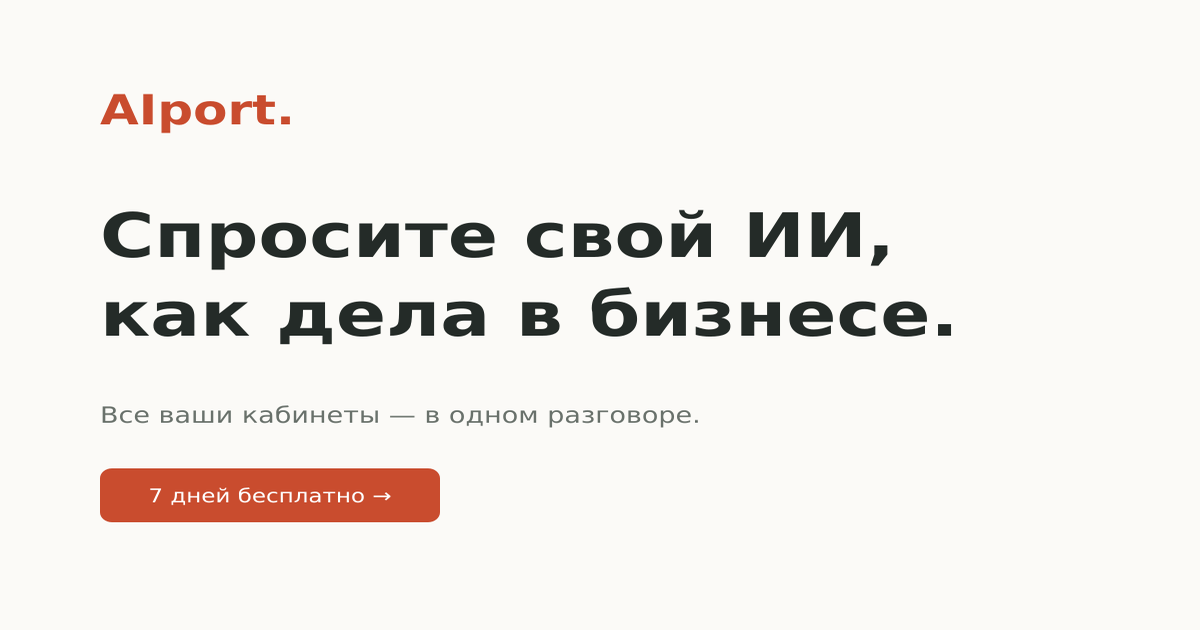
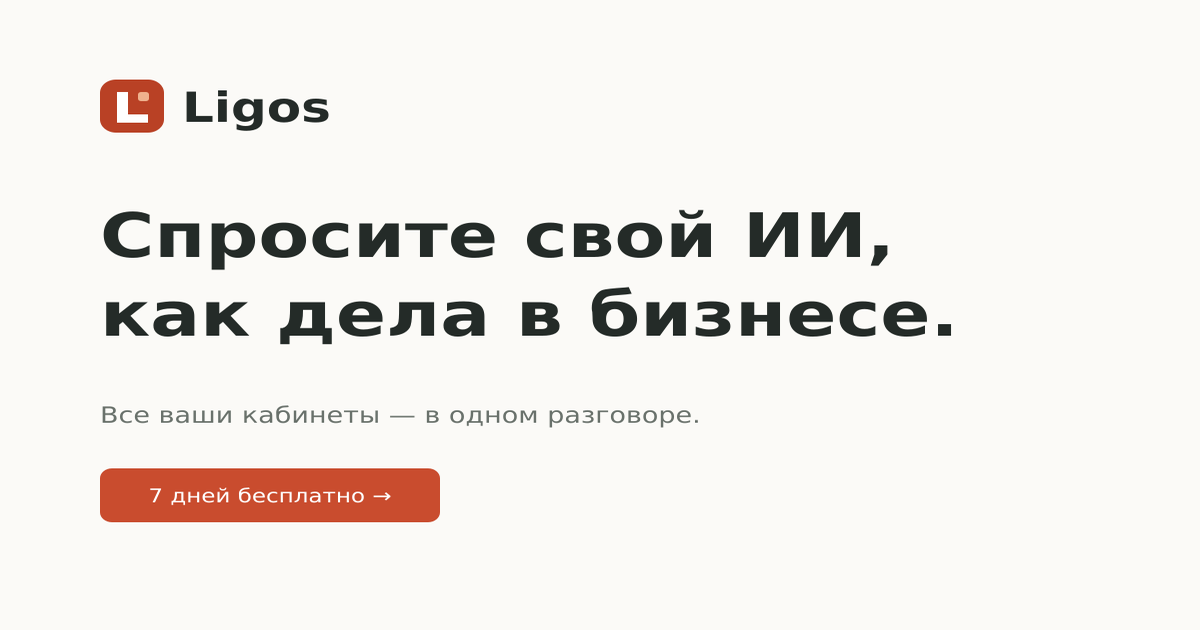
Rebrand site as Ligos and configure ligos.ru

Changed region(s): [[0.0617, 0.1206, 0.2775, 0.2111]]

diff --git a/src/scripts/site.ts b/src/scripts/site.ts
@@ -21,7 +21,7 @@ const safeStorage = {
     } catch {}
   },
 };
-let consent = safeStorage.get('aiport-consent');
+let consent = safeStorage.get('ligos-consent');
 function track(goal: string, params: Record<string, unknown> = {}) {
   if (consent === 'all' && window.ym && body.dataset.ymId)
     window.ym(Number(body.dataset.ymId), 'reachGoal', goal, params);
@@ -52,7 +52,7 @@ if (!consent && banner) banner.hidden = false;
 document.querySelectorAll<HTMLButtonElement>('[data-consent]').forEach((button) =>
   button.addEventListener('click', () => {
     consent = button.dataset.consent || 'necessary';
-    safeStorage.set('aiport-consent', consent);
+    safeStorage.set('ligos-consent', consent);
     if (banner) banner.hidden = true;
     loadAnalytics();
   }),

diff --git a/src/styles/global.css b/src/styles/global.css
@@ -218,24 +218,6 @@ p {
   line-height: 1;
   flex-shrink: 0;
 }
-.logo-dot {
-  color: var(--accent);
-}
-.logo-symbol {
-  display: grid;
-  grid-template-columns: repeat(2, 8px);
-  grid-template-rows: repeat(2, 8px);
-  gap: 3px;
-  transform: rotate(-9deg);
-  margin-right: 10px;
-}
-.logo-symbol i {
-  border-radius: 2px;
-  background: var(--accent);
-}
-.logo-symbol i:last-child {
-  background: #edaa87;
-}
 .desktop-nav {
   display: flex;
   align-items: center;
@@ -2735,4 +2717,10 @@ p {
   .button > svg {
     flex-shrink: 0;
   }
+}
+
+.logo-mark {
+  margin-right: 10px;
+  border-radius: 8px;
+  flex-shrink: 0;
 }

diff --git a/src/lib/config.ts b/src/lib/config.ts
@@ -1,6 +1,6 @@
 export const config = {
-  brand: import.meta.env.PUBLIC_BRAND || 'AIport',
-  site: (import.meta.env.PUBLIC_SITE_URL || 'https://aiport.example').replace(/\/$/, ''),
+  brand: import.meta.env.PUBLIC_BRAND || 'Ligos',
+  site: (import.meta.env.PUBLIC_SITE_URL || 'https://ligos.ru').replace(/\/$/, ''),
   app: (import.meta.env.PUBLIC_APP_URL || '').replace(/\/$/, ''),
   email: import.meta.env.PUBLIC_SUPPORT_EMAIL || '',
   ymId: import.meta.env.PUBLIC_YM_ID || '',

diff --git a/README.md b/README.md
@@ -1,4 +1,4 @@
-# AIport — продающий сайт
+# Ligos — продающий сайт
 
 Статический сайт на Astro 5 и TypeScript по ТЗ «продающий сайт». Основная аудитория — собственники магазинов на маркетплейсах. Дополнительные лендинги — для малого бизнеса и частных лиц.
 
@@ -25,7 +25,7 @@ npm run preview
 
 `npm run test:e2e` запускает Playwright и временный сервер собранного сайта. В этой облачной среде используется `/usr/bin/chromium`. На другой машине укажите `CHROMIUM_PATH` или установите Chromium. В тестах проверяются фильтры, цены, меню, формы, API-ответы, согласие на аналитику, ref/UTM и доступность основных типов страниц через axe. Настоящие платформенные запросы в интеграционных тестах заменены тестовыми ответами.
 
-`npm run assets` пересоздаёт WebP-иллюстрации и общую PNG-картинку Open Graph. `npm run format` форматирует исходники.
+`npm run assets` пересоздаёт WebP-иллюстрации, PNG-картинку Open Graph и PNG/ICO-версии favicon. Единый знак L лежит в `public/logo-mark.svg`; тот же знак используется в SVG favicon. `npm run format` форматирует исходники.
 
 ## Что реализовано
 
@@ -49,18 +49,18 @@ npm run preview
 
 Для локальной конфигурации скопируйте `.env.example` в `.env`. В GitHub Actions добавьте соответствующие **Repository variables**. Это публичные параметры, не секреты: не записывайте сюда токены, пароли и API-ключи пользователей.
 
-| Переменная                   | Назначение                                                   |
-| ---------------------------- | ------------------------------------------------------------ |
-| `PUBLIC_BRAND`               | Текстовый бренд, по умолчанию AIport                         |
-| `PUBLIC_SITE_URL`            | Полный адрес сайта, например `https://ваш-домен.ru`          |
-| `PUBLIC_APP_URL`             | Полный адрес платформы, например `https://app.ваш-домен.ru`  |
-| `PUBLIC_SUPPORT_EMAIL`       | Email поддержки                                              |
-| `PUBLIC_YM_ID`               | Числовой ID Яндекс Метрики                                   |
-| `PUBLIC_LEGAL_NAME`          | ФИО ИП / оператор                                            |
-| `PUBLIC_LEGAL_INN`           | ИНН                                                          |
-| `PUBLIC_LEGAL_OGRNIP`        | ОГРНИП                                                       |
-| `PUBLIC_YANDEX_VERIFICATION` | Код подтверждения Яндекс Вебмастера                          |
-| `PUBLIC_SECURITY_VERIFIED`   | `true` только после проверки заявленных мер защиты платформы |
+| Переменная                   | Назначение                                                    |
+| ---------------------------- | ------------------------------------------------------------- |
+| `PUBLIC_BRAND`               | Текстовый бренд, по умолчанию Ligos                           |
+| `PUBLIC_SITE_URL`            | Основной адрес сайта: `https://ligos.ru`                      |
+| `PUBLIC_APP_URL`             | Полный адрес платформы, после запуска: `https://app.ligos.ru` |
+| `PUBLIC_SUPPORT_EMAIL`       | Email поддержки                                               |
+| `PUBLIC_YM_ID`               | Числовой ID Яндекс Метрики                                    |
+| `PUBLIC_LEGAL_NAME`          | ФИО ИП / оператор                                             |
+| `PUBLIC_LEGAL_INN`           | ИНН                                                           |
+| `PUBLIC_LEGAL_OGRNIP`        | ОГРНИП                                                        |
+| `PUBLIC_YANDEX_VERIFICATION` | Код подтверждения Яндекс Вебмастера                           |
+| `PUBLIC_SECURITY_VERIFIED`   | `true` только после проверки заявленных мер защиты платформы  |
 
 Настройки считываются при сборке. После изменения нужен новый `npm run build` или перезапуск dev-сервера.
 
@@ -92,20 +92,21 @@ npm run preview
 
 ## Публикация на GitHub Pages
 
-Домен владелец добавит позже. Для первого деплоя используется GitHub Pages по адресу `https://100pasha.github.io/aiport_site/`. По умолчанию сайт использует технический адрес `https://aiport.example` только для локальной подготовки; он не предназначен для публикации.
+Основной адрес сайта — **https://ligos.ru**. Название — **Ligos**. Workflow собирает сайт для корня этого домена, а `public/CNAME` и итоговый `dist/CNAME` содержат `ligos.ru`. Canonical, Open Graph, sitemap, RSS и база знаний используют тот же домен.
 
-1. После появления коммита в `main` включите GitHub Pages → Source: **GitHub Actions**.
-2. Если домен ещё не выбран, оставьте `PUBLIC_SITE_URL` пустым в Repository variables. Для собственного домена укажите его полный HTTPS-адрес. Без собственного домена workflow использует `https://100pasha.github.io/aiport_site/`. Все ссылки, изображения, шрифты, RSS и база знаний учитывают этот путь; при указании собственного домена сборка автоматически переходит в его корень.
-3. Настройте DNS и Custom domain в GitHub Pages. Сборка сама создаёт `dist/CNAME` и `.nojekyll`.
-4. Включите **Enforce HTTPS** после выпуска сертификата GitHub.
-5. Укажите адрес платформы, поддержку, реквизиты и счётчик; проверьте окончательные документы.
-6. Запустите workflow и подтвердите сайт в Яндекс Вебмастере. Sitemap: `/sitemap.xml` (также доступен Astro `/sitemap-index.xml`).
+1. В GitHub Pages выберите Source: **GitHub Actions**, а Custom domain — `ligos.ru`.
+2. У регистратора домена настройте A-записи для `@`: `185.199.108.153`, `185.199.109.153`, `185.199.110.153`, `185.199.111.153`. Уберите конфликтующие записи прежнего хостинга. Для `www` при необходимости создайте CNAME на `100pasha.github.io`.
+3. После проверки DNS и выпуска сертификата включите **Enforce HTTPS** в GitHub Pages.
+4. Укажите рабочий адрес платформы, поддержку, реквизиты и счётчик. Контракт предусматривает `app.ligos.ru` и `mcp.ligos.ru`; пока платформа не запущена, её URL остаётся пустым и используются честные локальные заглушки.
+5. Подтвердите `ligos.ru` в Яндекс Вебмастере и отправьте `https://ligos.ru/sitemap.xml`.
 
-Настройка DNS, включение HTTPS, отправка sitemap в Вебмастер и публикация требуют действий в аккаунтах владельца. В рамках этой работы внешняя публикация не выполнялась.
+DNS управляется в аккаунте владельца домена. Изменение кода и CNAME не подтверждает настройку DNS, сертификата или завершение публикации GitHub Pages. Имя репозитория `100pasha/aiport_site` и путь checkout сохранены: они не являются названием продукта.
+
+Локальный запуск по-прежнему работает без `.env`. Для отдельной проверки размещения в подпапке можно переопределить `PUBLIC_SITE_URL`: ссылки и ресурсы учитывают путь автоматически.
 
 ## Что требуется перед публичным запуском
 
-- Домен, адрес работающей платформы, контакт поддержки и реквизиты ИП.
+- DNS домена ligos.ru, адрес работающей платформы, контакт поддержки и реквизиты ИП.
 - Проверка и утверждение юридических шаблонов; в них намеренно видна отметка предварительной редакции.
 - Проверка реальных разрешений всех API: OAuth и токен сами по себе не гарантируют права только на чтение.
 - Реальные скриншоты из тестовых кабинетов со скрытыми секретами и проверка инструкций, особенно текущих тарифов и интерфейса ChatGPT.

diff --git a/content/help/services/ozon.md b/content/help/services/ozon.md
@@ -10,10 +10,10 @@ updated: 2026-10-19
 > Предварительная инструкция. Интерфейс и разрешения нужно проверить в тестовом кабинете перед публикацией. Иллюстрация ниже — схема, а не скриншот реального сервиса.
 
 1. В кабинете продавца откройте **Настройки → API-ключи**. Нужен аккаунт с правами управления доступом.
-2. Выберите «Сгенерировать ключ», задайте понятное имя, например «AIport — чтение», и роль **Admin read only**. Не выбирайте роль с правами изменения.
+2. Выберите «Сгенерировать ключ», задайте понятное имя, например «Ligos — чтение», и роль **Admin read only**. Не выбирайте роль с правами изменения.
 3. Скопируйте **Client-Id** и **Api-Key** в форму подключения Ozon в кабинете платформы. Сохраните ключ в защищённом месте: он может показываться только один раз.
 
-![Схема подключения: кабинет сервиса, ограниченный ключ и кабинет AIport](/img/help/service-access.svg)
+![Схема подключения: кабинет сервиса, ограниченный ключ и кабинет Ligos](/img/help/service-access.svg)
 
 ## Храните ключ отдельно
 

diff --git a/content/help/services/bitrix24.md b/content/help/services/bitrix24.md
@@ -13,7 +13,7 @@ updated: 2026-10-19
 2. Выберите только нужные разделы. Вебхуки могут наследовать широкие права пользователя: убедитесь, что используется отдельный пользователь с правами чтения. Если это невозможно, не подключайте вебхук до согласования.
 3. Вставьте URL вебхука в кабинет платформы. URL содержит секрет: не публикуйте его и не отправляйте в обычный чат.
 
-![Схема подключения: кабинет сервиса, ограниченный ключ и кабинет AIport](/img/help/service-access.svg)
+![Схема подключения: кабинет сервиса, ограниченный ключ и кабинет Ligos](/img/help/service-access.svg)
 
 ## Храните ключ отдельно
 

diff --git a/content/help/services/wildberries.md b/content/help/services/wildberries.md
@@ -13,7 +13,7 @@ updated: 2026-10-19
 2. Отметьте необходимые категории: статистика, аналитика, финансы, контент, цены, продвижение и отзывы. Обязательно выберите **«Только на чтение»**.
 3. Скопируйте токен в подключение Wildberries в кабинете платформы. Если не выбрана нужная категория, её данные будут недоступны. При истечении срока действия обновите токен.
 
-![Схема подключения: кабинет сервиса, ограниченный ключ и кабинет AIport](/img/help/service-access.svg)
+![Схема подключения: кабинет сервиса, ограниченный ключ и кабинет Ligos](/img/help/service-access.svg)
 
 ## Храните ключ отдельно
 

diff --git a/content/help/services/yandex-direct.md b/content/help/services/yandex-direct.md
@@ -13,7 +13,7 @@ updated: 2026-10-19
 2. Выберите пользователя с минимальными правами. API-токен может допускать изменение рекламы: режим чтения нужно проверить отдельно, а ограничения платформы — подтвердить до подключения.
 3. Пройдите авторизацию и укажите рекламный аккаунт в кабинете платформы. При сомнениях в правах не продолжайте подключение.
 
-![Схема подключения: кабинет сервиса, ограниченный ключ и кабинет AIport](/img/help/service-access.svg)
+![Схема подключения: кабинет сервиса, ограниченный ключ и кабинет Ligos](/img/help/service-access.svg)
 
 ## Храните ключ отдельно
 

diff --git a/content/help/services/kaiten.md b/content/help/services/kaiten.md
@@ -13,7 +13,7 @@ updated: 2026-10-19
 2. Создайте токен от отдельного пользователя с минимальными правами. Если токен наследует права редактирования, сначала уточните возможность ограничения доступа.
 3. Добавьте адрес вашей компании и токен в кабинет платформы. Не предоставляйте доступ к пространствам, которые не нужны для ваших вопросов.
 
-![Схема подключения: кабинет сервиса, ограниченный ключ и кабинет AIport](/img/help/service-access.svg)
+![Схема подключения: кабинет сервиса, ограниченный ключ и кабинет Ligos](/img/help/service-access.svg)
 
 ## Храните ключ отдельно
 

diff --git a/content/help/services/amocrm.md b/content/help/services/amocrm.md
@@ -13,7 +13,7 @@ updated: 2026-10-19
 2. Используйте отдельную интеграцию и пользователя с минимальными правами. OAuth сам по себе не гарантирует режим чтения: проверьте фактические права в аккаунте.
 3. Разрешайте доступ только на странице самой amoCRM. Если запрашиваются ненужные права записи, отмените подключение и обратитесь в поддержку.
 
-![Схема подключения: кабинет сервиса, ограниченный ключ и кабинет AIport](/img/help/service-access.svg)
+![Схема подключения: кабинет сервиса, ограниченный ключ и кабинет Ligos](/img/help/service-access.svg)
 
 ## Храните ключ отдельно
 

diff --git a/content/help/services/planfact.md b/content/help/services/planfact.md
@@ -13,7 +13,7 @@ updated: 2026-10-19
 2. Создайте отдельный ключ. Ограничьте доступ чтением, если такой параметр предусмотрен. Не используйте ключ с правом платежей или изменения операций.
 3. Вставьте ключ в подключение ПланФакт в кабинете платформы. При отсутствии отдельного режима чтения сначала уточните доступ у поддержки.
 
-![Схема подключения: кабинет сервиса, ограниченный ключ и кабинет AIport](/img/help/service-access.svg)
+![Схема подключения: кабинет сервиса, ограниченный ключ и кабинет Ligos](/img/help/service-access.svg)
 
 ## Храните ключ отдельно
 

diff --git a/content/help/services/finolog.md b/content/help/services/finolog.md
@@ -13,7 +13,7 @@ updated: 2026-10-19
 2. Создайте отдельный ключ с минимальными правами. Проверьте, что он не разрешает создание, изменение или удаление операций.
 3. Вставьте ключ в кабинет платформы и проверьте список доступных бизнесов. Если права нельзя ограничить, остановите подключение и обратитесь в поддержку.
 
-![Схема подключения: кабинет сервиса, ограниченный ключ и кабинет AIport](/img/help/service-access.svg)
+![Схема подключения: кабинет сервиса, ограниченный ключ и кабинет Ligos](/img/help/service-access.svg)
 
 ## Храните ключ отдельно
 
